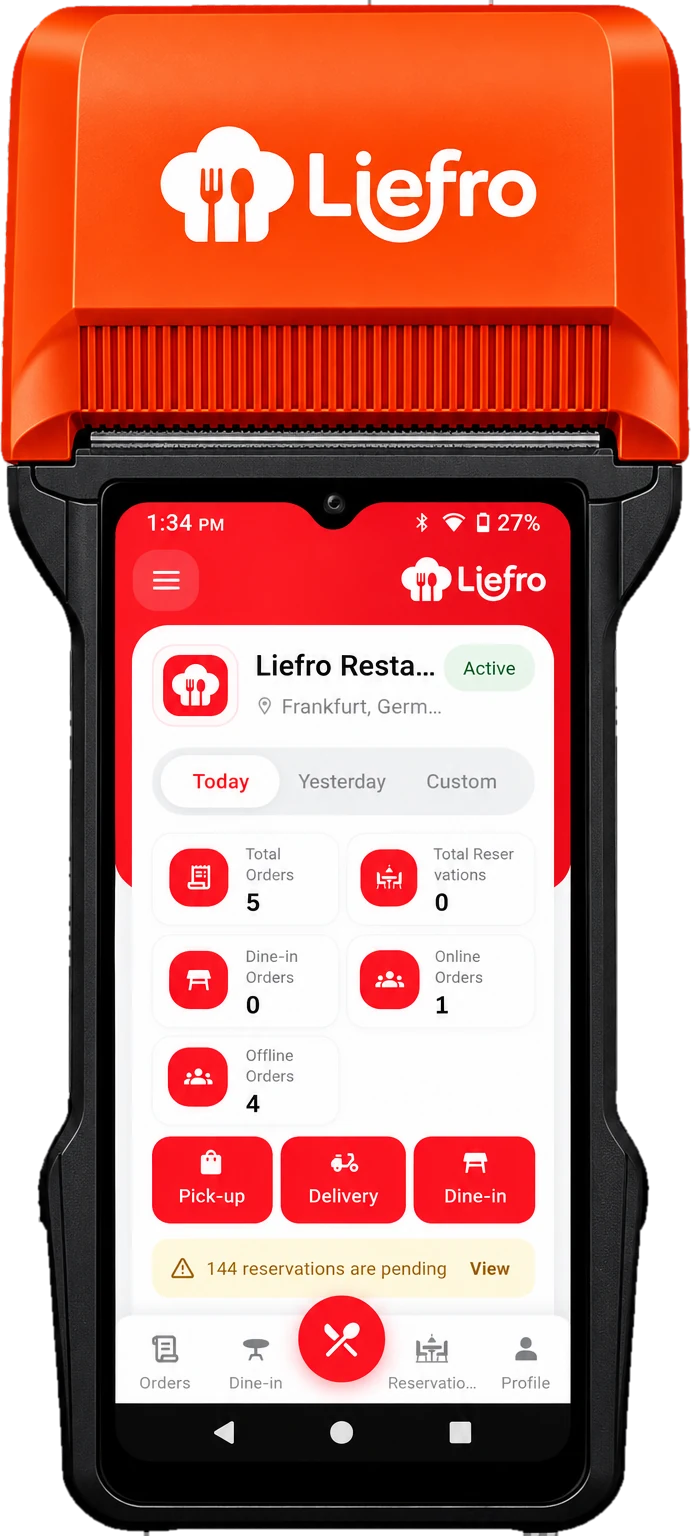
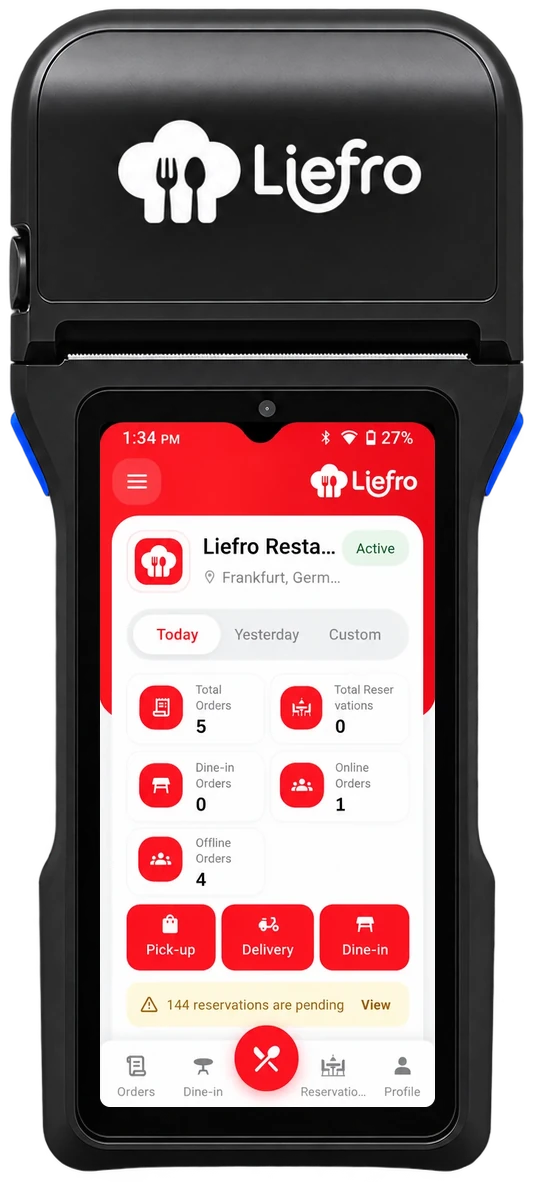
Use new black handheld device image in hero

diff --git a/frontend/src/components/home/HeroDevices.jsx b/frontend/src/components/home/HeroDevices.jsx
@@ -13,7 +13,6 @@ const screenSlides = [
   src: `/hero/${n}-1280.webp`,
   srcSet: widths.map((w) => `/hero/${n}-${w}.webp ${w}w`).join(", "),
 }));
-
 // Rendered width of the tablet screen: the tablet is min(54vw, 780px) wide on
 // desktop and the screen is 90.2% of it.
 const screenSizes = "(min-width: 1600px) 704px, (min-width: 1024px) 49vw, 90vw";
@@ -47,7 +46,7 @@ export function HeroTablet({ alt }) {
 // The three smaller devices, laid out on a 16:10 stage in percentages. `depth`
 // scales how far a layer follows the mouse, so nearer devices move more.
 const smallDevices = [
-  { key: "handheld", src: "/hero/device-handheld.webp", width: 691, height: 1536, box: { left: "4%", bottom: "4%", width: "21%" }, z: 30, depth: 1, float: 5.5, delay: 0.5 },
+  { key: "handheld", src: "/hero/device-handheld.webp", width: 534, height: 1182, box: { left: "4%", bottom: "4%", width: "21%" }, z: 30, depth: 1, float: 5.5, delay: 0.5 },
   { key: "phone", src: "/hero/phone-kellner.webp", width: 720, height: 1409, box: { left: "29%", bottom: "8%", width: "20%" }, z: 20, depth: 0.7, float: 5, delay: 0.6 },
   { key: "printer", src: "/hero/device-printer.webp", width: 1000, height: 1043, box: { left: "54%", bottom: "4%", width: "38%" }, z: 10, depth: 1.2, float: 6, delay: 0.7 },
 ];
